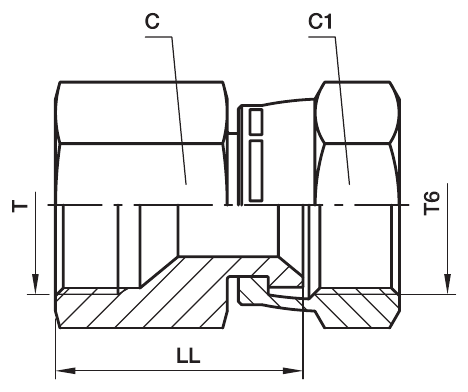
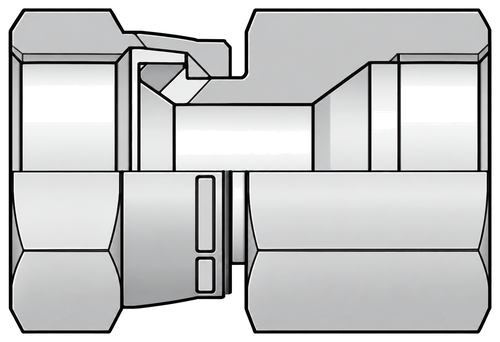
images

diff --git a/tmp/pdfs/restyle_line_drawings.py b/tmp/pdfs/restyle_line_drawings.py
@@ -1,0 +1,92 @@
+from pathlib import Path
+
+from PIL import Image, ImageChops, ImageOps
+
+
+ROOT = Path(__file__).resolve().parents[2]
+SOURCES = ROOT / "tmp/pdfs/index480"
+OUTPUT = ROOT / "tmp/pdfs/restyled_preview"
+
+
+# Crop coordinates were measured on the 120 dpi review renders. The script
+# scales them to the 480 dpi source renders and excludes captions/table rules.
+CROPS = {
+    "2015": ("4300-p36.png", 1020, (245, 420, 350, 490)),       # XHX6
+    "2041": ("4100-p198.png", 992, (220, 415, 310, 486)),      # PTR34M
+    "2143": ("4100-p198.png", 992, (220, 185, 310, 250)),      # G4MK4
+    "2228": ("4100-p2.png", 992, (420, 195, 495, 255)),        # TT4MX
+    "2247": ("4100-p198.png", 992, (220, 550, 315, 620)),      # 0107
+    "2249": ("4100-p198.png", 992, (220, 885, 315, 952)),      # F3T4
+    "2282": ("4300-p91.png", 1020, (675, 145, 770, 224)),      # WH-M-KDS
+    "2612": ("4100-p197.png", 992, (215, 882, 315, 955)),      # F6MK4
+    "7228": ("4100-p2.png", 992, (420, 195, 495, 255)),        # TT4MX
+    "8141": ("4100-p198.png", 992, (350, 190, 425, 250)),      # FNMK4
+    "8221": ("4300-p36.png", 1020, (105, 420, 220, 495)),      # WGTX
+    "8225": ("4300-p36.png", 1020, (800, 292, 925, 360)),      # WFTX
+    "8228": ("4300-p36.png", 1020, (800, 292, 925, 360)),      # WFTX
+    "8243": ("4300-p36.png", 1020, (245, 695, 355, 760)),      # F4OMX
+    "8245": ("4100-p2.png", 992, (615, 650, 710, 725)),        # BBMTX
+    "8246": ("4100-p197.png", 992, (455, 780, 550, 842)),      # F8OHG5
+}
+
+
+def trim_white(image: Image.Image, margin: int = 16) -> Image.Image:
+    rgb = image.convert("RGB")
+    white = Image.new("RGB", rgb.size, "white")
+    difference = ImageChops.difference(rgb, white).convert("L")
+    difference = difference.point(lambda value: 255 if value > 12 else 0)
+    bbox = difference.getbbox()
+    if bbox is None:
+        raise ValueError("crop contains no visible drawing")
+    left, top, right, bottom = bbox
+    return rgb.crop((
+        max(0, left - margin),
+        max(0, top - margin),
+        min(rgb.width, right + margin),
+        min(rgb.height, bottom + margin),
+    ))
+
+
+def trim_sparse_guides(image: Image.Image, margin: int = 16) -> Image.Image:
+    """Ignore one-pixel centre lines when determining the adapter boundary."""
+    rgb = image.convert("RGB")
+    grey = rgb.convert("L")
+    mask = grey.point(lambda value: 1 if value < 245 else 0)
+    columns = [sum(mask.getpixel((x, y)) for y in range(mask.height)) for x in range(mask.width)]
+    rows = [sum(mask.getpixel((x, y)) for x in range(mask.width)) for y in range(mask.height)]
+    dense_columns = [index for index, count in enumerate(columns) if count >= 8]
+    dense_rows = [index for index, count in enumerate(rows) if count >= 8]
+    if not dense_columns or not dense_rows:
+        return trim_white(rgb, margin)
+    cropped = rgb.crop((
+        dense_columns[0],
+        dense_rows[0],
+        dense_columns[-1] + 1,
+        dense_rows[-1] + 1,
+    ))
+    return ImageOps.expand(cropped, border=margin, fill="white")
+
+
+def crop_adapter(filename: str, reference_width: int, box: tuple[int, int, int, int]) -> Image.Image:
+    source = Image.open(SOURCES / filename).convert("RGB")
+    scale = source.width / reference_width
+    scaled = tuple(round(value * scale) for value in box)
+    image = trim_sparse_guides(source.crop(scaled))
+    if max(image.size) > 500:
+        image.thumbnail((500, 500), Image.Resampling.LANCZOS)
+    # Normalize near-white antialiasing from the PDF renderer to a clean white background.
+    pixels = image.load()
+    for y in range(image.height):
+        for x in range(image.width):
+            r, g, b = pixels[x, y]
+            if r >= 250 and g >= 250 and b >= 250:
+                pixels[x, y] = (255, 255, 255)
+    return image
+
+
+OUTPUT.mkdir(parents=True, exist_ok=True)
+for code, (filename, reference_width, box) in CROPS.items():
+    result = crop_adapter(filename, reference_width, box)
+    destination = OUTPUT / f"{code}.png"
+    result.save(destination, optimize=True)
+    print(f"{destination.name}\t{result.width}x{result.height}")

diff --git a/tmp/pdfs/install_generated_restyles.py b/tmp/pdfs/install_generated_restyles.py
@@ -1,0 +1,67 @@
+from pathlib import Path
+
+from PIL import Image, ImageChops, ImageOps
+
+
+ROOT = Path(r"C:\Users\patrick\Documents\GitHub\Geeve_selectors")
+IMAGES = ROOT / "adapters/images"
+GENERATED = Path(r"C:\Users\patrick\.codex\generated_images\01a09ab5-7a36-7932-bffa-4d19d9431317")
+
+SOURCES = {
+    "2015": "exec-6c9ef150-56ae-4aac-9742-601117b60b06.png",
+    "2041": "exec-c791ad89-3649-42ea-beab-b5e62ca5a301.png",
+    "2143": "exec-02b456a7-4c63-44a0-91a7-b4d2a64e29eb.png",
+    "2228": "exec-c5f49dbe-2b3e-4db1-9792-e2e2a2df40c7.png",
+    "2247": "exec-582bcfc9-8433-43d0-bc37-1f37f5b27173.png",
+    "2249": "exec-1a404c4d-ebdb-47d8-818d-c033b8382770.png",
+    "2282": "exec-f342bfa4-2686-4cac-8b72-413d1737087f.png",
+    "2612": "exec-54595ead-0a98-4acb-82c9-b7b2e1f430c0.png",
+    "8141": "exec-91349e27-cf09-4e6d-9ffb-2fac116b23c6.png",
+    "8219": "exec-7fe9c4ea-763e-44b1-91da-5d238fb26d91.png",
+    "8221": "exec-0388f129-7a6e-4da9-97cd-de3fd35b1184.png",
+    "8225": "exec-bf9808ca-3587-4a8d-a686-c27388fb8eae.png",
+    "8243": "exec-ac95e6fe-2822-4a62-947f-fc31d613b3a8.png",
+    "8245": "exec-1192970d-60f0-4f76-8d7f-627317ae05e0.png",
+    "8246": "exec-b507d43a-33c8-4f0c-ba1e-d78ca9c968ef.png",
+}
+
+
+def normalize(source: Path) -> Image.Image:
+    image = Image.open(source).convert("RGB")
+    # Generated backgrounds are subtly off-white. A conservative threshold
+    # finds the actual product while keeping pale metal highlights intact.
+    grey = image.convert("L")
+    mask = grey.point(lambda value: 255 if value < 238 else 0)
+    bbox = mask.getbbox()
+    if bbox is None:
+        raise ValueError(f"no adapter found in {source}")
+    left, top, right, bottom = bbox
+    pad = max(18, round(max(image.size) * 0.015))
+    image = image.crop((
+        max(0, left - pad),
+        max(0, top - pad),
+        min(image.width, right + pad),
+        min(image.height, bottom + pad),
+    ))
+    pixels = image.load()
+    for y in range(image.height):
+        for x in range(image.width):
+            r, g, b = pixels[x, y]
+            if r >= 246 and g >= 246 and b >= 246:
+                pixels[x, y] = (255, 255, 255)
+    if max(image.size) > 500:
+        image.thumbnail((500, 500), Image.Resampling.LANCZOS)
+    return image
+
+
+for code, filename in SOURCES.items():
+    result = normalize(GENERATED / filename)
+    destination = IMAGES / f"{code}.png"
+    result.save(destination, optimize=True)
+    print(f"{destination.name}\t{result.width}x{result.height}")
+
+# These catalog families use the same drawing and should remain pixel-identical.
+for target, source in {"7228": "2228", "8228": "8225"}.items():
+    image = Image.open(IMAGES / f"{source}.png").convert("RGB")
+    image.save(IMAGES / f"{target}.png", optimize=True)
+    print(f"{target}.png\t{image.width}x{image.height}\t(copy of {source})")

diff --git a/tmp/pdfs/restyled_contact_sheet.py b/tmp/pdfs/restyled_contact_sheet.py
@@ -1,0 +1,28 @@
+from pathlib import Path
+
+from PIL import Image, ImageDraw, ImageFont
+
+
+ROOT = Path(__file__).resolve().parents[2]
+IMAGES = ROOT / "tmp/pdfs/restyled_preview"
+CODES = sorted(path.stem for path in IMAGES.glob("*.png"))
+columns = 4
+cell_width = 260
+cell_height = 220
+label_height = 28
+rows = (len(CODES) + columns - 1) // columns
+sheet = Image.new("RGB", (columns * cell_width, rows * cell_height), "#dadada")
+draw = ImageDraw.Draw(sheet)
+font = ImageFont.load_default(size=18)
+
+for index, code in enumerate(CODES):
+    image = Image.open(IMAGES / f"{code}.png").convert("RGB")
+    image.thumbnail((cell_width - 18, cell_height - label_height - 14))
+    cell_x = (index % columns) * cell_width
+    cell_y = (index // columns) * cell_height
+    x = cell_x + (cell_width - image.width) // 2
+    y = cell_y + label_height + (cell_height - label_height - image.height) // 2
+    sheet.paste(image, (x, y))
+    draw.text((cell_x + 7, cell_y + 4), code, fill="black", font=font)
+
+sheet.save(ROOT / "tmp/pdfs/restyled-contact-sheet.png", optimize=True)
